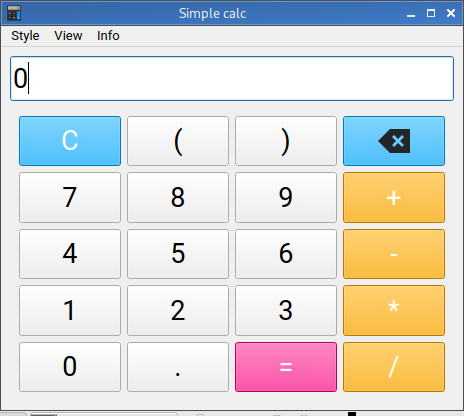
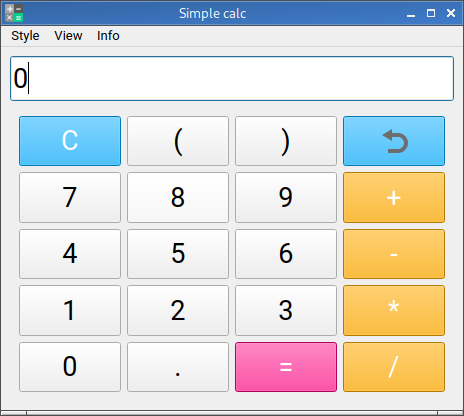
Some improvements

Changed region(s): [[0.0, 0.9688, 1.0, 1.0], [0.8147, 0.3125, 0.9052, 0.375], [0.0, 0.0, 0.0603, 0.0625]]

diff --git a/ui.py b/ui.py
@@ -209,7 +209,7 @@ class Ui_MainWindow(object):
         self.btn_del.setStyleSheet("color: rgb(255, 255, 255);\n"
 "background-color: rgb(0, 170, 255);")
         self.btn_del.setText("")
-        icon = QtGui.QIcon.fromTheme("edit-clear")
+        icon = QtGui.QIcon.fromTheme("edit-undo")
         self.btn_del.setIcon(icon)
         self.btn_del.setIconSize(QtCore.QSize(32, 32))
         self.btn_del.setObjectName("btn_del")
@@ -643,7 +643,7 @@ class Ui_MainWindow(object):
         self.btn_del_2.setStyleSheet("color: rgb(255, 255, 255);\n"
 "background-color: rgb(0, 170, 255);")
         self.btn_del_2.setText("")
-        icon = QtGui.QIcon.fromTheme("edit-clear")
+        icon = QtGui.QIcon.fromTheme("edit-undo")
         self.btn_del_2.setIcon(icon)
         self.btn_del_2.setIconSize(QtCore.QSize(32, 32))
         self.btn_del_2.setObjectName("btn_del_2")
@@ -702,16 +702,8 @@ class Ui_MainWindow(object):
         self.act_light.setObjectName("act_light")
         self.act_dark = QtGui.QAction(parent=MainWindow)
         self.act_dark.setObjectName("act_dark")
-        self.act_grey = QtGui.QAction(parent=MainWindow)
-        self.act_grey.setObjectName("act_grey")
-        self.act_pink = QtGui.QAction(parent=MainWindow)
-        self.act_pink.setObjectName("act_pink")
-        self.act_gold = QtGui.QAction(parent=MainWindow)
-        self.act_gold.setObjectName("act_gold")
         self.act_on_trans = QtGui.QAction(parent=MainWindow)
         self.act_on_trans.setObjectName("act_on_trans")
-        self.act_off_trans = QtGui.QAction(parent=MainWindow)
-        self.act_off_trans.setObjectName("act_off_trans")
         self.actionStandard = QtGui.QAction(parent=MainWindow)
         self.actionStandard.setObjectName("actionStandard")
         self.actionEngineer = QtGui.QAction(parent=MainWindow)
@@ -796,11 +788,7 @@ class Ui_MainWindow(object):
         self.act_system.setText(_translate("MainWindow", "System Qt Style"))
         self.act_light.setText(_translate("MainWindow", "Light"))
         self.act_dark.setText(_translate("MainWindow", "Dark"))
-        self.act_grey.setText(_translate("MainWindow", "Grey"))
-        self.act_pink.setText(_translate("MainWindow", "Pink"))
-        self.act_gold.setText(_translate("MainWindow", "Gold"))
         self.act_on_trans.setText(_translate("MainWindow", "On/Off transparency"))
-        self.act_off_trans.setText(_translate("MainWindow", "Off transparency"))
         self.actionStandard.setText(_translate("MainWindow", "Standard"))
         self.actionEngineer.setText(_translate("MainWindow", "Engineer"))
         self.actionPaper.setText(_translate("MainWindow", "Paper"))

diff --git a/main.py b/main.py
@@ -9,10 +9,6 @@ class CalcApp(QtWidgets.QMainWindow):
         self.ui = Ui_MainWindow()
         self.ui.setupUi(self)
         self.init_UI()
-        if sys.platform != "linux":
-            self.setWindowIcon(QtGui.QIcon("icon.png"))
-            self.ui.btn_del.setIcon(QtGui.QIcon("undo-icon.png"))
-            self.ui.btn_del_2.setIcon(QtGui.QIcon("undo-icon.png"))
 
     def init_UI(self):     
         buttons = {
